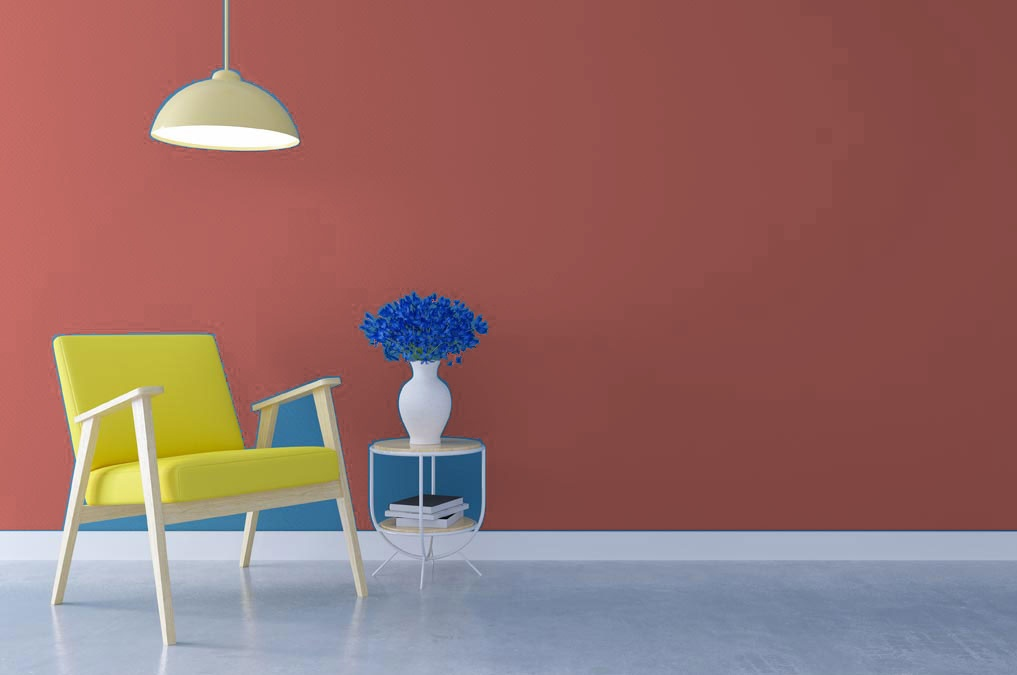
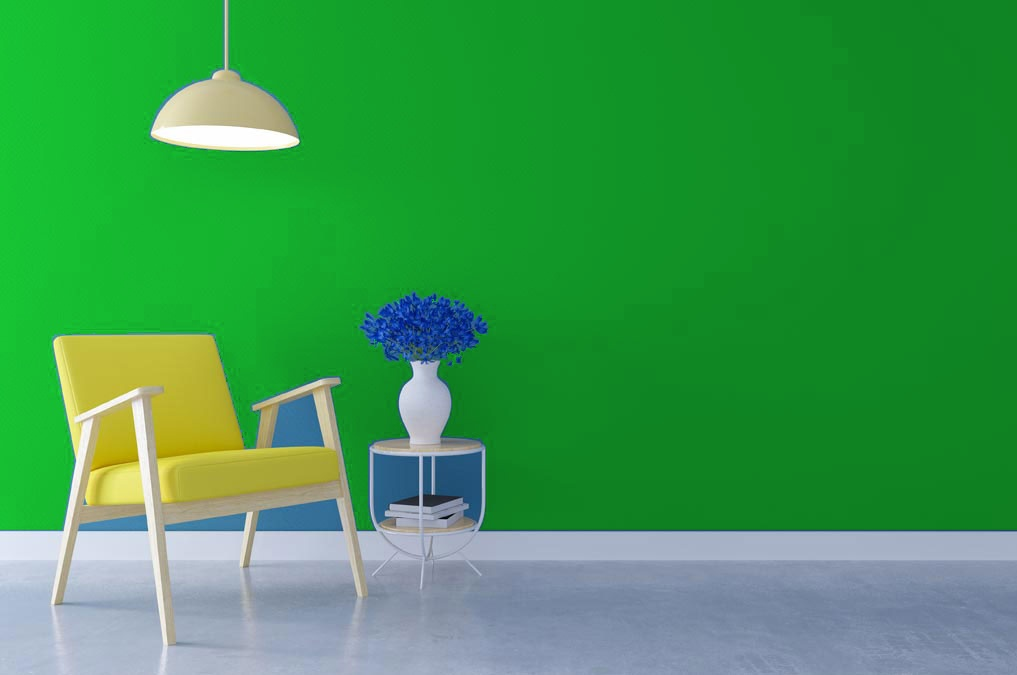
handled get

diff --git a/server.py b/server.py
@@ -134,6 +134,12 @@ class SimpleHTTPRequestHandler(http.server.BaseHTTPRequestHandler):
             if self.path.startswith('/?'):
                 param_map_arr = self.path.replace('/?','')
                 param_map = param_map_arr.split('&')
+                dict = {}
+                for elem in param_map:
+                    item = elem.split('=')
+                    dict[item[0]] = item[1]
+                print(dict)
+                img_proc.changeColor(dict['img'], (100,100), dict['color'].split(','), dict['pattern'])
             self.path = './public/images/' + self.path
             path = self.translate_path(self.path)
             return self.list_directory(path)
